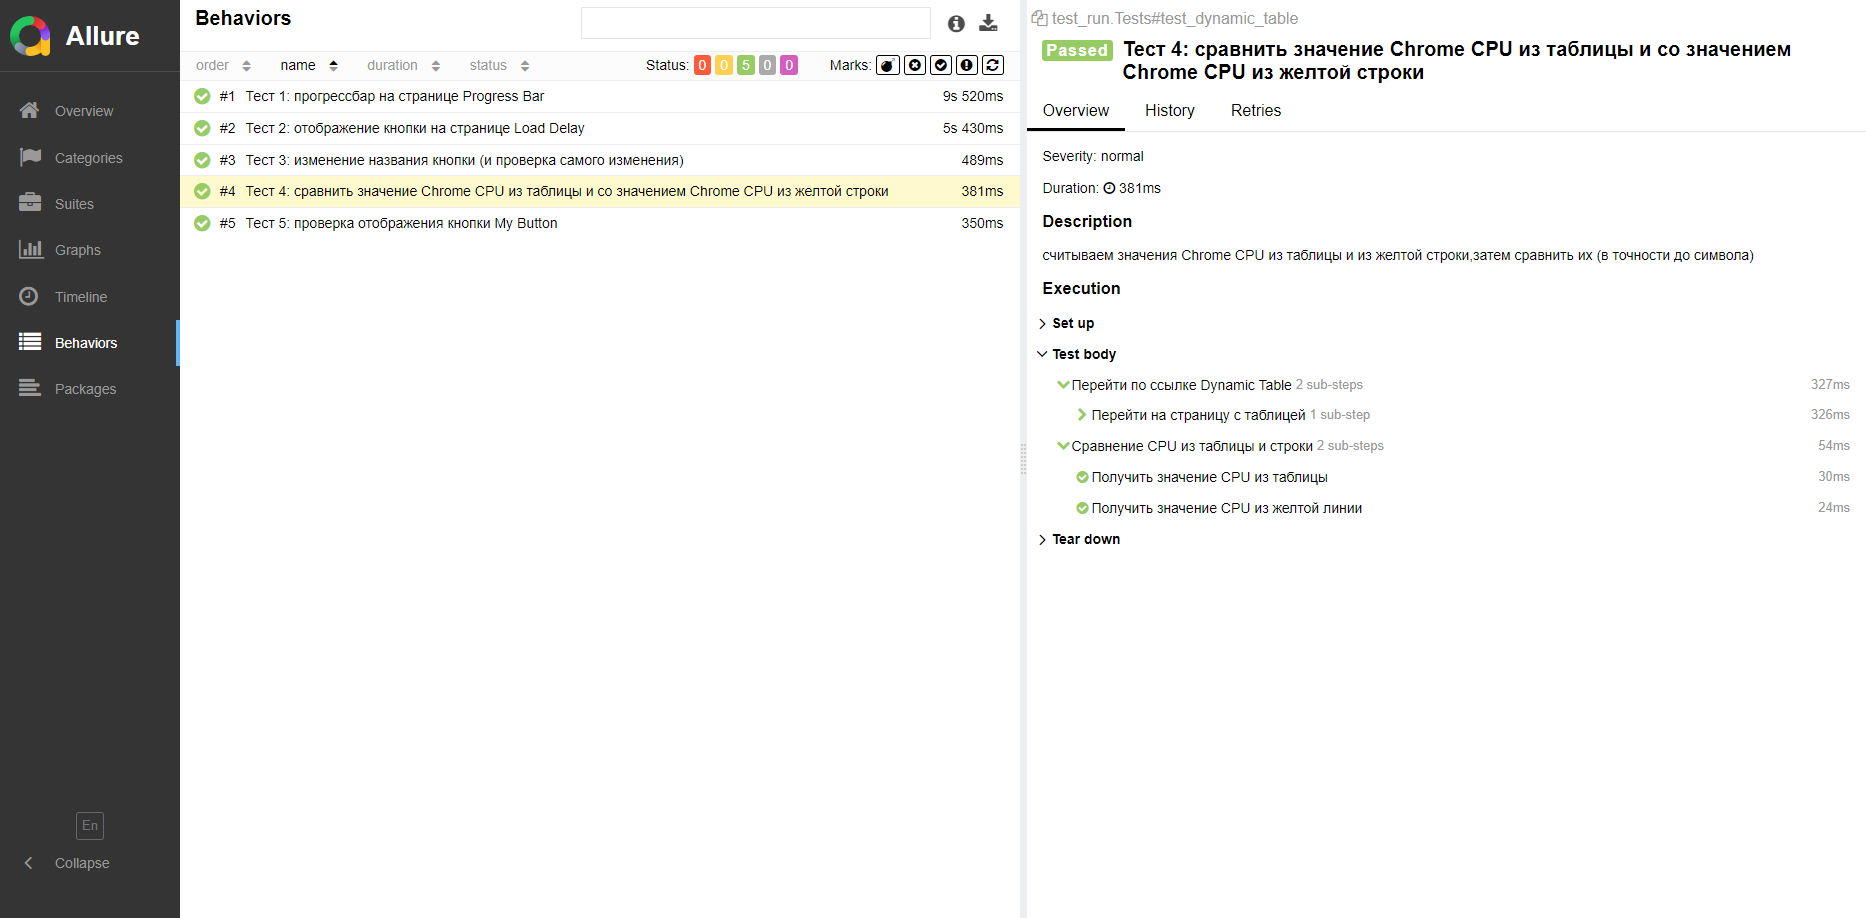
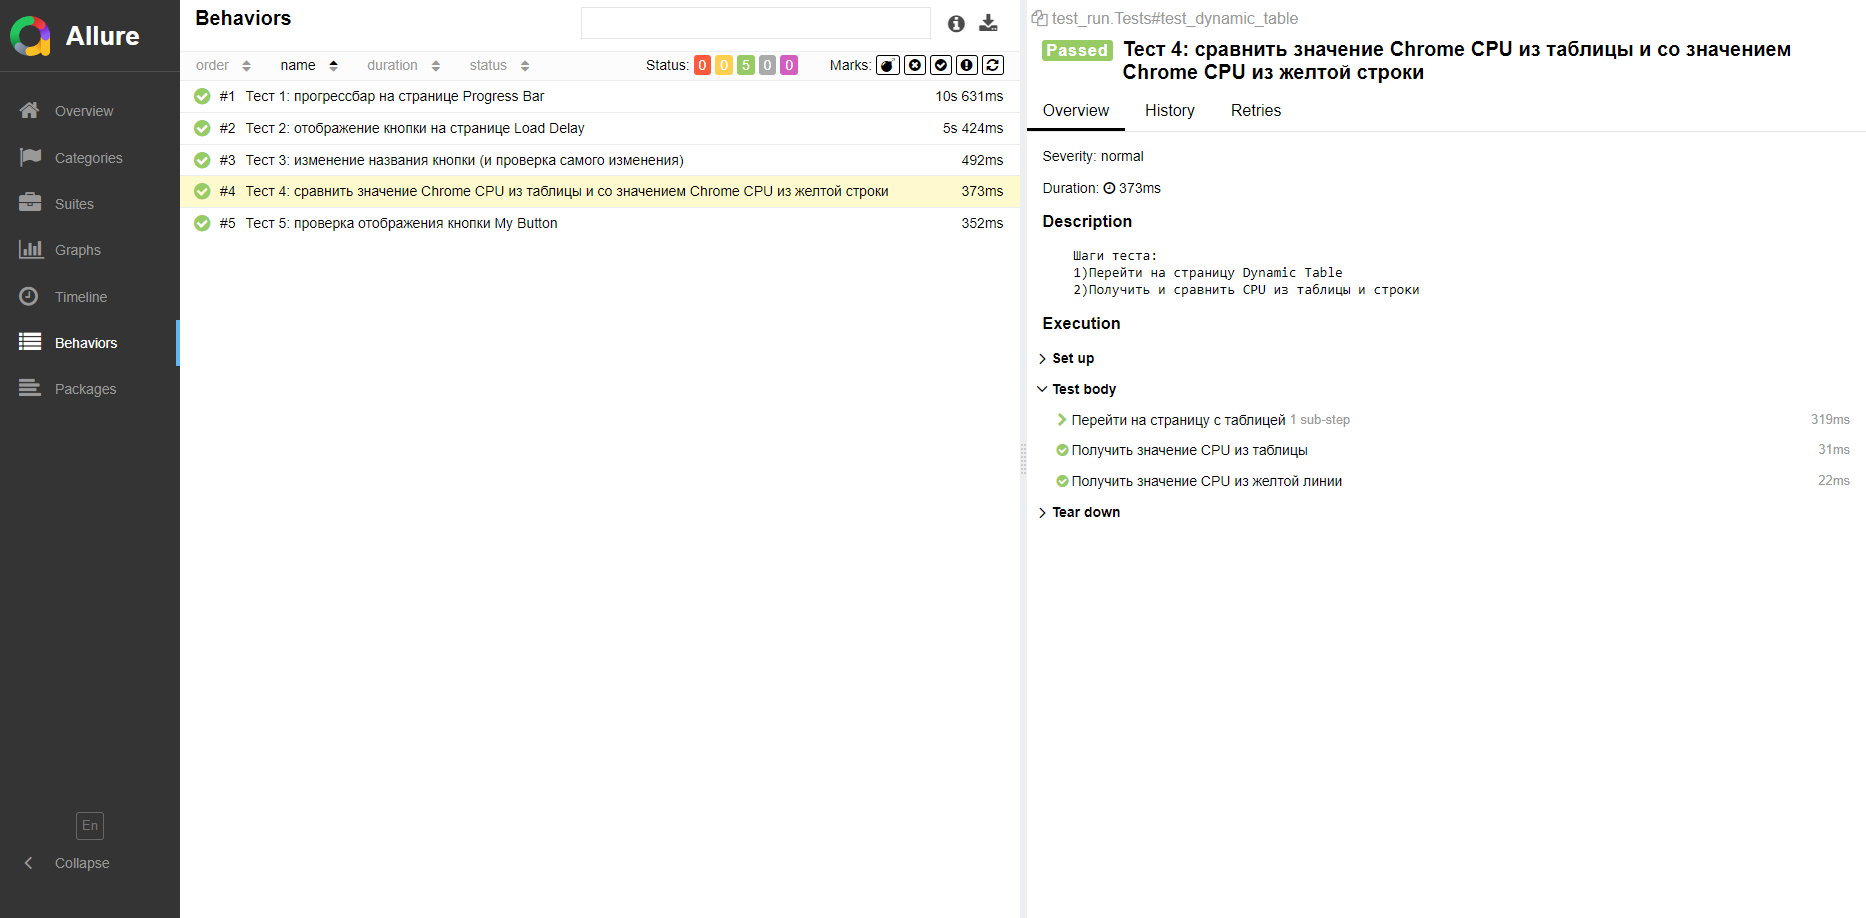
tests(update 1)

Changed region(s): [[0.5595, 0.2745, 0.9325, 0.61], [0.9636, 0.3965, 0.9946, 0.549], [0.4973, 0.0915, 0.5284, 0.122]]

diff --git a/test_run.py b/test_run.py
@@ -8,95 +8,86 @@ from pages.dynamictable_page import DynamicTablePage
 from pages.nbsp_page import NonBreakingSpacePage
 
 
-
-
-
 @allure.suite('Тесты лабы')
 class Tests:
     @allure.title('Тест 1: прогрессбар на странице Progress Bar')
     @allure.description(
-        '''Включаем(нажимаем Start) прогрессбар,ждем пока прогресс не дойдет до 75%,
-        выключаем(нажимаем Stop) его и после этого проверяем,
-        что значение Result < 5, Duration < 17000''')
+        '''
+        Шаги теста:
+        Перейти на страницу Progress Bar
+        Нажать на кнопку старт
+        ожидание, пока  прогресс не станет равен 75%
+        нажать кнопку Stop
+        проверка значения Result (должно быть меньше 5)
+        проверка значения Duration (должно быть меньше 17 000)
+        ''')
     def test_progressbar(self, driver) -> None:
         progressbar_page = ProgressbarPage(driver)
-        with allure.step('Перейти по ссылке Progress Bar'):
-            progressbar_page.move_to_progressbar()
 
+        progressbar_page.move_to_progressbar()
+        progressbar_page.click_start_btn()
 
-        with allure.step('Нажать на кнопку старт'):
-            progressbar_page.click_start_btn()
+        progressbar_page.wait_for_progress('75')
 
-        with allure.step('ждем пока  прогресс не станет равен 75% '):
-            while progressbar_page.get_progress() < '75%':
-                progressbar_page.get_progress()
+        progressbar_page.click_stop_btn()
 
-        with allure.step('нажимаем кнопку Stop'):
-            progressbar_page.click_stop_btn()
-
-        with allure.step('получаем Result и проверяем меньше ли оно 5 '):
-            assert progressbar_page.get_result() < "5", ('[FAILED]:Result >= 5 ')
-
-        with allure.step('получаем Duration'):
-            assert progressbar_page.get_duration() < '17500', ('[FAILED]:Duration >= 17000 ')
+        assert progressbar_page.get_result() < "5", ('[FAILED]:Result >= 5 ')
+        assert progressbar_page.get_duration() < '17000', ('[FAILED]:Duration >= 17000 ')
 
     @allure.title('Тест 2: отображение кнопки на странице Load Delay')
     @allure.description(
-        ''' ждем, пока загрузится страница Load Delay и отобразится кнопка,
-        проверить, что кнопка Button Appearing After Delay отображается''')
+        '''
+        Шаги теста:
+        1)Перейти по ссылке Progress Bar из домашней старницы
+        2)Проверить как отображается кнопка Button Appearing After Delay
+        ''')
     def test_load_delays(self, driver) -> None:
         start_page = StartPage(driver)
-        with allure.step('Перейти по ссылке Progress Bar'):
-            start_page.click_load_delays_link()
+        start_page.click_load_delays_link()
 
         delays_pages = LoadDelayPage(driver)
-        with allure.step('Проверить как отображается кнопка Button Appearing After Delay'):
-            delays_pages.btn_primary_is_display()
-
+        delays_pages.btn_primary_is_display()
 
     @allure.title('Тест 3: изменение названия кнопки (и проверка самого изменения)')
     @allure.description(
-        ''' вводим новое название кнопки в поле ввода,
-        нажимаем на саму кнопку,и проверяем,
-        изменилось ли ее название(сравниваем со старым) ''')
+        '''
+        Шаги теста:
+        1)Перейти на страницу Text Input
+        2)Получение старого имени кнопки
+        3)Ввод нового названия кнопки
+        4)Клик по кнопке для изменения ее названия
+        5)Сравнение старого названия и нового
+        ''')
     def test_text_input(self, driver) -> None:
         text_input_page = TextInputPage(driver)
-        with allure.step('Перейти по ссылке Text Input'):
-            text_input_page.move_to_textinput()
 
-
-
-        with allure.step('Получение старого имени кнопки'):
-            old_btn_name = text_input_page.get_btn_name()
-
-        with allure.step('Ввод нового названия кнопки'):
-            text_input_page.input_new_name_btn()
-
-        with allure.step('Клик по кнопке для изменения ее названия'):
-            text_input_page.click_btn()
-
-        with allure.step('Сравнение старого названия и нового'):
-            text_input_page.compare_btn_names(old_btn_name, text_input_page.get_btn_name())
+        text_input_page.move_to_textinput()
+        old_btn_name = text_input_page.get_btn_name()
+        text_input_page.input_new_name_btn()
+        text_input_page.click_btn()
+        text_input_page.compare_btn_names(old_btn_name, text_input_page.get_btn_name())
 
     @allure.title('Тест 4: сравнить значение Chrome CPU из таблицы и  со значением Chrome CPU из желтой строки')
     @allure.description(
-        ''' cчитываем значения Chrome CPU из таблицы и из желтой строки,затем сравнить их (в точности до символа)''')
+        '''
+        Шаги теста:
+        1)Перейти на страницу Dynamic Table
+        2)Получить и сравнить CPU из таблицы и строки
+        ''')
     def test_dynamic_table(self, driver) -> None:
         dynamic_table = DynamicTablePage(driver)
-        with allure.step('Перейти по ссылке Dynamic Table'):
-            dynamic_table.move_to_dynamictable()
-
-        with allure.step('Сравнение CPU из таблицы и строки'):
-            assert dynamic_table.get_cpu_from_yellow_line() == dynamic_table.get_cpu_from_table(), (
-                '[FAILED]: значение из таблицы не равно значению в выделенной желтым строке ')
+        dynamic_table.move_to_dynamictable()
+        assert dynamic_table.get_cpu_from_yellow_line() == dynamic_table.get_cpu_from_table(), (
+            '[FAILED]: значение из таблицы не равно значению в выделенной желтым строке ')
 
     @allure.title('Тест 5: проверка отображения кнопки My Button ')
     @allure.description(
-        ''' найти кнопку My Button и проверить ее отображение ''')
+        ''' 
+        Шаги теста:
+        1)Перейти  на страницу 
+        2)Проверить отображение кнопки с надписью "My Button"
+        ''')
     def test_nbsp(self, driver) -> None:
         nbsp = NonBreakingSpacePage(driver)
-        with allure.step('Перейти по ссылке Non-Breaking Space'):
-            nbsp.move_to_nbsp()
-
-        with allure.step('Проверить,отображается ли кнопка с надписью "My Button"'):
-            nbsp.btn_is_display()
+        nbsp.move_to_nbsp()
+        nbsp.btn_is_display()

diff --git a/pages/progressbar_page.py b/pages/progressbar_page.py
@@ -43,3 +43,8 @@ class ProgressbarPage(BasePage):
     @allure.step('Получение значения прогресса')
     def get_progress(self) -> str:
         return self.get_text(self.progressbar)
+
+    @allure.step('Ожидание прогресса')
+    def wait_for_progress(self, percent: str) -> None:
+        while self.get_progress() < f'{percent}%':
+            self.get_progress()
